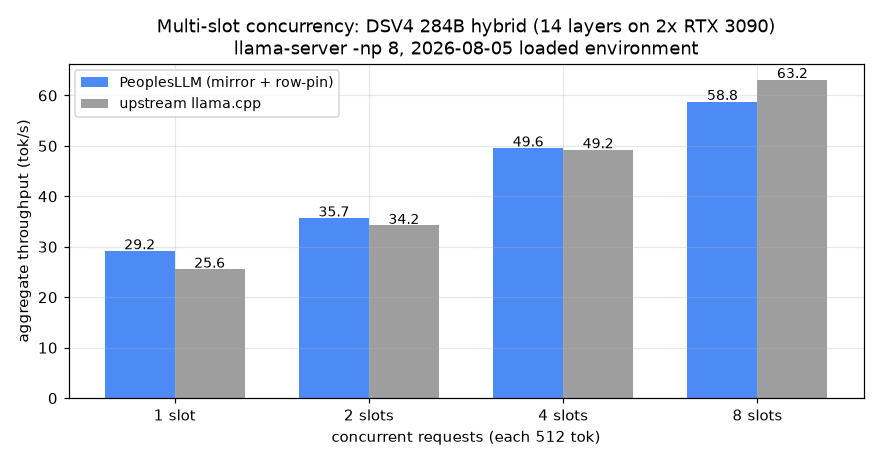
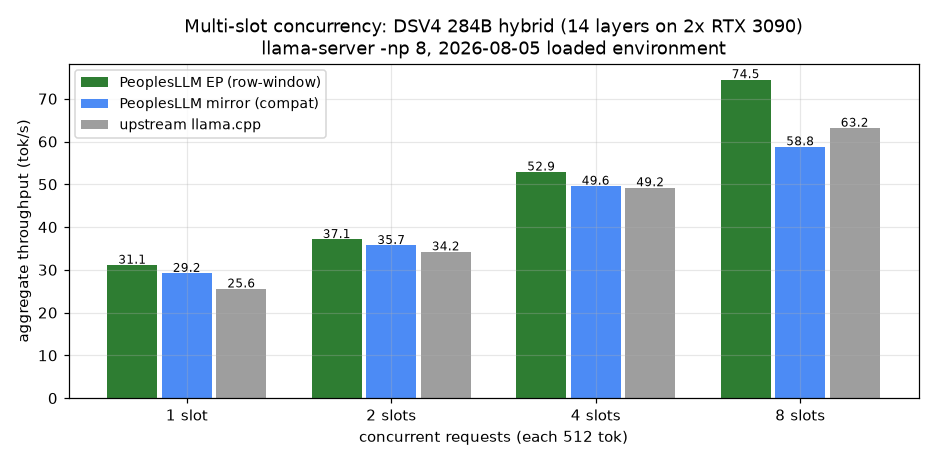
docs(bench): EP 配置多 slot 全档领先（8 槽 +18% vs 主线），mirror 降为兼容选项

diff --git a/docs/benchmarks/plot-campaign2-20260805.py b/docs/benchmarks/plot-campaign2-20260805.py
@@ -57,11 +57,11 @@ def parse_slots():
     res = {}
     for f in glob.glob(os.path.join(LOGS, "slots-*-*.log")):
         base = os.path.basename(f)
-        m = re.match(r"slots-(ours|up|upstream)-(\d+)\.log", base)
+        m = re.match(r"slots-(ours|up|upstream|ep)-(\d+)\.log", base)
         if not m:
             continue
         impl, n = m.group(1), int(m.group(2))
-        impl = "upstream" if impl in ("up", "upstream") else "ours"
+        impl = "upstream" if impl in ("up", "upstream") else impl
         agg = None
         for line in open(f):
             mm = re.search(r"aggregate=([\d.]+) tok/s", line)
@@ -73,20 +73,21 @@ def parse_slots():
 
 slots = parse_slots()
 if slots:
-    fig, ax = plt.subplots(figsize=(8, 4.2))
+    fig, ax = plt.subplots(figsize=(8.5, 4.2))
     ns = sorted({n for v in slots.values() for n in v})
-    w = 0.36; x = np.arange(len(ns))
-    for k, (impl, color, label) in enumerate((("ours", C_OURS, "PeoplesLLM (mirror + row-pin)"),
-                                              ("upstream", C_BASE, "upstream llama.cpp"))):
-        if impl not in slots:
-            continue
+    series = [("ep", C_OURS2, "PeoplesLLM EP (row-window)"),
+              ("ours", C_OURS, "PeoplesLLM mirror (compat)"),
+              ("upstream", C_BASE, "upstream llama.cpp")]
+    series = [(i, c, l) for i, c, l in series if i in slots]
+    nser = len(series)
+    w = 0.8 / nser; x = np.arange(len(ns))
+    for k, (impl, color, label) in enumerate(series):
         vals = [slots[impl].get(n, 0) for n in ns]
-        ax.bar(x + (k - 0.5) * w if len(slots) > 1 else x, vals, w if len(slots) > 1 else 0.5,
-               label=label, color=color)
+        xpos = x + (k - (nser - 1) / 2) * w
+        ax.bar(xpos, vals, w * 0.92, label=label, color=color)
         for i, v in enumerate(vals):
             if v:
-                ax.text((x[i] + (k - 0.5) * w) if len(slots) > 1 else x[i], v + 0.3, f"{v:.1f}",
-                        ha="center", fontsize=9)
+                ax.text(xpos[i], v + 0.3, f"{v:.1f}", ha="center", fontsize=8)
     ax.set_xticks(x); ax.set_xticklabels([f"{n} slot{'s' if n>1 else ''}" for n in ns])
     ax.set_xlabel("concurrent requests (each 512 tok)")
     ax.set_ylabel("aggregate throughput (tok/s)")

diff --git a/README.en.md b/README.en.md
@@ -85,7 +85,7 @@ DSV4 284B Q3_K on pure CPU (72 threads, interleave): **PP +38%, TG +17-18%**. Re
 
 ![Multi-slot concurrency](docs/benchmarks/multislot_concurrency.png)
 
-llama-server 8-slot concurrency (512 tok each): aggregate throughput leads upstream at 1/2/4 slots (+14%/+4%/even), but **upstream pulls ahead by 7% at 8 slots** — a known weak spot being tracked. Hybrid config (14 expert layers on 2 GPUs), same-methodology llama-bench: EP pp512 **227.8 vs upstream 158.4 (+44%)**, tg512 31.3 vs 29.1 (+7.5%); mirror pp512 200.2 (+26%).
+llama-server 8-slot concurrency (512 tok each): **the EP (row-window) config leads upstream at every concurrency level — +22% at 1 slot, +18% at 8 slots (74.5 vs 63.2 tok/s)**. Mirror remains a compatibility option; at 8 slots it trails upstream by 7% (per-token weight traffic is amortized at high concurrency, devaluing its structural bandwidth advantage) — use `GGML_NUMA_EP=1` for production multi-user serving. Hybrid config (14 expert layers on 2 GPUs), same-methodology llama-bench: EP pp512 **227.8 vs upstream 158.4 (+44%)**, tg512 31.3 vs 29.1 (+7.5%); mirror pp512 200.2 (+26%).
 
 ### Long context: layer-major prefill (DSV4-Flash, 16K)
 

diff --git a/README.md b/README.md
@@ -85,7 +85,7 @@ DSV4 284B Q3_K 纯 CPU（72 线程 interleave）：**PP +38%、TG +17-18%**。20
 
 ![Multi-slot concurrency](docs/benchmarks/multislot_concurrency.png)
 
-llama-server 8 槽并发压测（每槽 512 tok）：1/2/4 槽聚合吞吐领先主线（+14%/+4%/持平），**8 槽主线反超 7%**——高并发调度是已知短板，在跟进。混合配置（14 层专家上双卡）同口径 llama-bench：EP pp512 **227.8 vs 主线 158.4（+44%）**、tg512 31.3 vs 29.1（+7.5%）；mirror pp512 200.2（+26%）。
+llama-server 8 槽并发压测（每槽 512 tok）：**EP（行窗）配置全并发档领先主线——1 槽 +22%、8 槽 +18%（74.5 vs 63.2 tok/s）**；mirror 作为兼容性选项在 8 槽被主线反超 7%（高并发下其每令牌权重流量摊薄、结构性带宽优势贬值），生产多并发请用 `GGML_NUMA_EP=1` 配置。混合配置（14 层专家上双卡）同口径 llama-bench：EP pp512 **227.8 vs 主线 158.4（+44%）**、tg512 31.3 vs 29.1（+7.5%）；mirror pp512 200.2（+26%）。
 
 ### 超长上下文：layer-major prefill（DSV4-Flash，16K）
 
